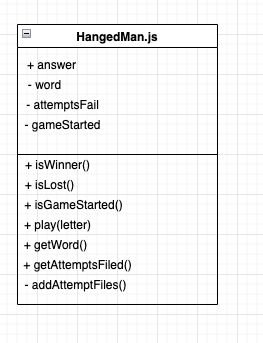
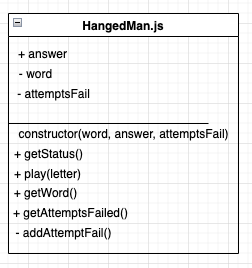
change name and status game

Changed region(s): [[0.0278, 0.0299, 0.9722, 0.9552]]

diff --git a/src/model/hangedMan.js b/src/model/hangedMan.js
@@ -1,3 +1,4 @@
+import status from "../helpers/status.js";
 import arrayUtils from "../util/arrayUtils.js";
 import stringUtils from "../util/stringUtils.js";
 
@@ -7,29 +8,25 @@ class HangedMan {
 
     #word;
     #attemptsFail;
-    #gameStarted;
 
-    constructor (word, answer, attemptsFail, gameStarted) {
+    constructor (word, answer, attemptsFail) {
         this.#word = word;
-        this.answer = answer;
         this.#attemptsFail = attemptsFail;
-        this.#gameStarted = gameStarted;
+        this.answer = answer;
+        this.status = status.GAME_STARTED;
     }
 
-    isWinner = () => {
+    getStatus = () => {
         const win = stringUtils.compareWords(this.#word, this.answer);
-        this.#gameStarted = !win;
-        return win;
-    }
-
-    isLost = () => {
+        if(win) {
+            this.status = status.WON_GAME;
+        }
         const lost = this.#attemptsFail >= ATTEMPTS_QUANTITY;
-        this.#gameStarted = !lost;
-        return lost;
-    }
+        if(lost) {
+            this.status = status.LOST_GAME;
+        }
 
-    isGameStarted = () => {
-        return this.#gameStarted;
+        return this.status;
     }
 
     play = (letter) => {
@@ -37,12 +34,12 @@ class HangedMan {
         if(indexes.length > 0) {
           this.answer = arrayUtils.insertWordInArrayByIndexPosition(this.answer, letter.toUpperCase(), indexes);
         } else {
-            this.#addAttemptFiles();
+            this.#addAttemptFail();
         }
         return this;
     }
 
-    #addAttemptFiles = () => {
+    #addAttemptFail = () => {
         this.#attemptsFail = this.#attemptsFail + 1;
     }
 
@@ -50,8 +47,12 @@ class HangedMan {
         return this.#word;
     }
 
-    getAttemptsFiled = () => {
+    getAttemptsFailed = () => {
         return this.#attemptsFail;
+    }
+
+    getAllStatus = () => {
+        return status;
     }
 }
 

diff --git a/src/app.js b/src/app.js
@@ -1,5 +1,6 @@
 import inputs from './helpers/inputs';
 import messages from './helpers/messages';
+import status from './helpers/status';
 import hangedManUtils from './util/hangedManUtils';
 import optionUtils from './util/optionUtils';
 
@@ -24,22 +25,19 @@ const main = async() => {
     }
 
     do {
-        if(hangedMan && hangedMan.isGameStarted()) {
-            messages.showUnderscore(hangedMan.answer, hangedMan.getAttemptsFiled());
+        if(hangedMan && hangedMan.getStatus() === status.GAME_STARTED) {
+            messages.showUnderscore(hangedMan.answer, hangedMan.getAttemptsFailed());
             const letter = await inputs.insertLetter();
             hangedMan.play(letter);
-            if(!hangedMan.isWinner()) {
-                hangedMan.isLost();
-            }
         }
-    } while(hangedMan && hangedMan.isGameStarted());
+    } while(hangedMan && hangedMan.getStatus() === status.GAME_STARTED);
 
-    if(hangedMan && hangedMan.isWinner()) {
+    if(hangedMan && hangedMan.getStatus() === status.WON_GAME) {
         messages.showWinnerMessage(hangedMan.answer);
     }
 
-    if(hangedMan && hangedMan.isLost()) {
-        messages.showLoserMessage(hangedMan.answer, hangedMan.getAttemptsFiled(), hangedMan.getWord());
+    if(hangedMan && hangedMan.getStatus() === status.LOST_GAME) {
+        messages.showLoserMessage(hangedMan.answer, hangedMan.getAttemptsFailed(), hangedMan.getWord());
     }
     
 }

diff --git a/test/model/hangedMan.test.js b/test/model/hangedMan.test.js
@@ -1,18 +1,17 @@
+import status from "../../src/helpers/status";
 import HangedMan from "../../src/model/hangedMan";
 
 describe('hangedMan test', () => {
     it('test is win', () => {
-        const hangedMan = new HangedMan('BEAR', ['B', 'E', 'A', 'R'], 0, true);
-        expect(hangedMan.isWinner()).toBe(true);
-        expect(hangedMan.isGameStarted()).toBe(false);
+        const hangedMan = new HangedMan('BEAR', ['B', 'E', 'A', 'R'], 0);
+        expect(hangedMan.getStatus()).toBe(status.WON_GAME);
     });
     it('test is lost', () => {
-        const hangedMan = new HangedMan('BEAR', ['B', 'E', 'A', 'X'], 3, true);
-        expect(hangedMan.isLost()).toBe(true);
-        expect(hangedMan.isGameStarted()).toBe(false);
+        const hangedMan = new HangedMan('BEAR', ['B', 'E', 'A', 'X'], 3);
+        expect(hangedMan.getStatus()).toBe(status.LOST_GAME);
     });
     it('test set word inserted', () => {
-        const hangedMan = new HangedMan('ALLIGATOR', ['_', 'L', 'L', 'I', 'G', '_', 'T', 'O', 'R'], 0, true);
+        const hangedMan = new HangedMan('ALLIGATOR', ['_', 'L', 'L', 'I', 'G', '_', 'T', 'O', 'R'], 0);
         hangedMan.play('A');
         expect(hangedMan.answer).toEqual(['A', 'L', 'L', 'I', 'G', 'A', 'T', 'O', 'R']);
     });

diff --git a/test/util/hangedManUtils.test.js b/test/util/hangedManUtils.test.js
@@ -1,10 +1,11 @@
+import status from "../../src/helpers/status";
 import hangedManUtils from "../../src/util/hangedManUtils";
 describe('test init hanged man', () => {
   it('test is init game', () => {
     const result = hangedManUtils.initHangedMan('1', '1');
     expect(result.getWord()).not.toBeFalsy();
     expect(result.answer).not.toBeFalsy();
-    expect(result.getAttemptsFiled()).toBe(0);
-    expect(result.isGameStarted()).toBe(true);
+    expect(result.getAttemptsFailed()).toBe(0);
+    expect(result.getStatus()).toBe(status.GAME_STARTED);
   });
 });

diff --git a/src/util/hangedManUtils.js b/src/util/hangedManUtils.js
@@ -16,7 +16,7 @@ const hangedManUtils = {
     const levelName = optionUtils.getLevelNameByOption(level);
     const word = stringUtils.getRandomWordFromArray(arrayUtils.getItemsListByType(categoryName, levelName));
     const answer = arrayUtils.fillAnswerWithUnderscoreLetters(word);
-    return new HangedMan(word, answer, 0, true);
+    return new HangedMan(word, answer, 0);
   }
 };
 

diff --git a/src/helpers/status.js b/src/helpers/status.js
@@ -1,0 +1,6 @@
+const status = Object.freeze({
+    GAME_STARTED: 1,
+    WON_GAME: 2,
+    LOST_GAME: 3
+});
+export default status;

diff --git a/README.md b/README.md
@@ -38,27 +38,27 @@ hangedman = hangedman.play('A');
 
 ```
 
-5. ### Verify if is Winner
-- To verify if the play was win use the method isWinner(), return true if you win.
+5. ### Verify all status value
+- To verify all status value, run this method, will return this value:  { GAME_STARTED: 1, WON_GAME: 2, LOST_GAME: 3 }
 
 ```
-const isWinner = hangedman.isWinner();
-
-```
-
-6. ### Verify if is Lost
-- To verify if the play was lost use the method isLost(), return true if you lost, you lost when you quantity of attempts faileds are three or more.
-
-```
-const isLost = hangedman.isLost();
+const status = hangedman.getAllStatus();
 
 ```
 
-6. ### Verify quantity of attempts fails
+6. ### Verify the status game
+- To verify the status game, run this method.
+
+```
+const status = hangedman.getStatus();
+
+```
+
+7. ### Verify quantity of attempts fails
 - To verify if the play was lost use the method isLost(), return true if you lost, you lost when you quantity of attempts fails are three or more.
 
 ```
-const fails = hangedman.getAttemptsFiled();
+const fails = hangedman.getAttemptsFailed();
 
 ```
 
